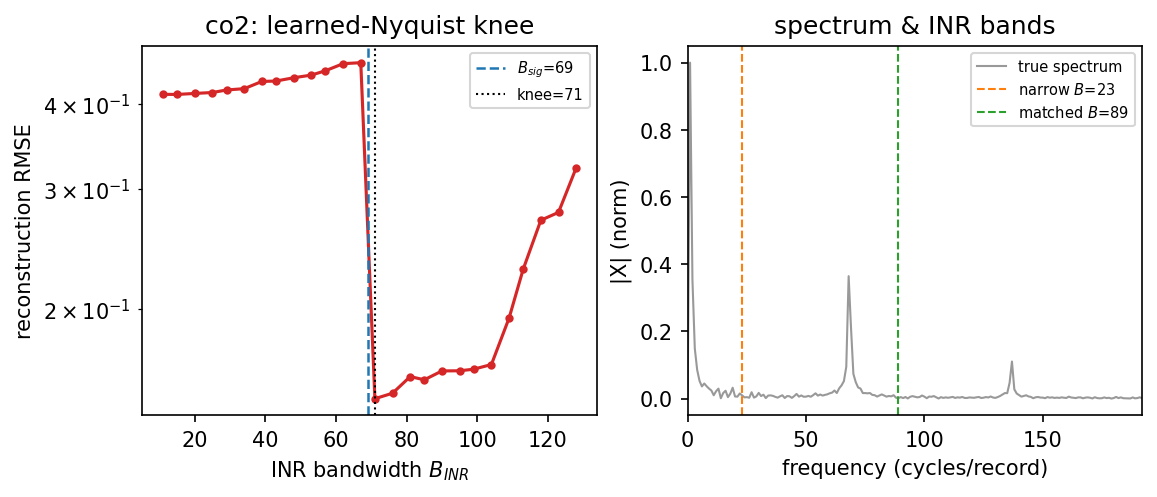
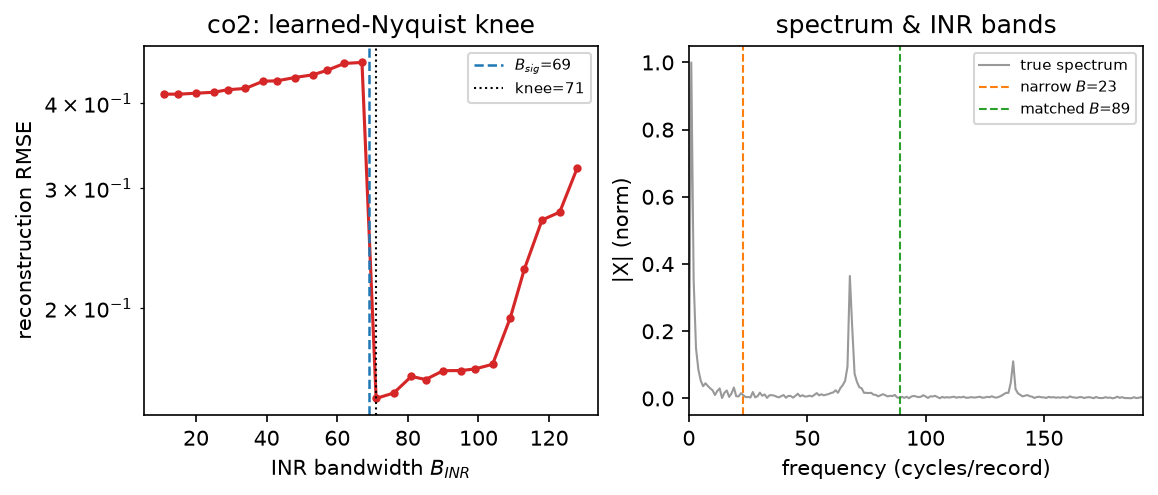
M7: run_all.py reproducibility entry point + README status/reproduction
- experiments/run_all.py: fetch data -> E1 -> E2 -> real sweeps -> (torch) nonlinear+2D; deterministic seeds
- verified bit-for-bit reproducibility local CPU == GPU server (co2: knee=71, 0.415, 0.160)
- README: status all done, CPU/torch split, paper build steps, data provenance

diff --git a/experiments/run_all.py b/experiments/run_all.py
@@ -1,0 +1,66 @@
+r"""Regenerate every result and figure.
+
+Order:
+  0. fetch real data (data/fetch_real.py) if the .npz files are missing;
+  1. E1 phase transition (CPU);
+  2. E2 silent aliasing (CPU);
+  3. real-signal learned-Nyquist sweeps (CPU): co2, sunspots_smooth, speech, sunspots;
+  4. trained nonlinear INR persistence + 2-D image demo (GPU/torch, skipped if torch absent).
+
+Every experiment uses a fixed seed, so results are deterministic. The GPU steps are the only
+ones needing torch; they are skipped with a message if torch is unavailable (run them on the
+server -- see README).
+"""
+from __future__ import annotations
+
+import runpy
+import sys
+from pathlib import Path
+
+ROOT = Path(__file__).resolve().parent.parent
+sys.path.insert(0, str(ROOT / "src"))
+sys.path.insert(0, str(ROOT / "experiments"))
+DATA = ROOT / "data"
+
+
+def _ensure_data():
+    needed = ["co2", "sunspots_smooth", "speech", "sunspots"]
+    missing = [n for n in needed if not (DATA / f"{n}.npz").exists()]
+    if missing:
+        print(f"[run_all] fetching missing real data: {missing}", flush=True)
+        import importlib.util
+        spec = importlib.util.spec_from_file_location("fetch_real", DATA / "fetch_real.py")
+        mod = importlib.util.module_from_spec(spec)
+        spec.loader.exec_module(mod)
+        mod.main(missing)
+
+
+def main():
+    _ensure_data()
+
+    import run_phase_transition
+    print("\n=== E1 phase transition ==="); run_phase_transition.main()
+
+    import run_silent_aliasing
+    print("\n=== E2 silent aliasing ==="); run_silent_aliasing.main()
+
+    import run_real_signal
+    print("\n=== real-data learned-Nyquist sweeps ===")
+    sys.argv = ["run_real_signal", "co2", "sunspots_smooth", "speech", "sunspots"]
+    run_real_signal.main()
+
+    from inralias.inr import torch_available
+    if torch_available():
+        import run_nonlinear
+        print("\n=== nonlinear INR persistence (torch) ==="); run_nonlinear.main()
+        import run_image2d
+        print("\n=== 2-D image demo (torch) ==="); run_image2d.run()
+    else:
+        print("\n[run_all] torch unavailable -- skipping nonlinear + 2-D demos "
+              "(run experiments/run_nonlinear.py and run_image2d.py on the GPU server)", flush=True)
+
+    print("\n[run_all] done. Results in results/ and results/figures/.", flush=True)
+
+
+if __name__ == "__main__":
+    main()

diff --git a/README.md b/README.md
@@ -24,16 +24,19 @@ the manuscript.
 > aliasing diagnostic**, and we instantiate **both sides of the limit** on real audio,
 > scientific (astronomical / seismic) and RF signals.
 
-## Status (work in progress)
+## Status
 
 - [x] Sampling / frame machinery on a finite frequency dictionary (`src/inralias/sampling.py`, tested)
-- [x] Theorem 1 achievability — noise gain, recoverable MMSE (tested vs Monte-Carlo)
-- [x] Theorem 2 converse — aliasing bias, error floor, folded frequency, silent aliasing (tested)
-- [x] Theorem 3 statistical — aliasing-bias floor vs estimation variance (tested)
-- [ ] Trained nonlinear INRs (SIREN / learnable frequencies) + bandwidth-matched estimator
-- [ ] Experiments E1–E2 (synthetic phase transition + silent-aliasing spectrum)
-- [ ] Real data E3 audio, E4 science, E5 RF, E6 2-D image demo
-- [ ] Paper (IEEE ICASSP, spconf)
+- [x] Theorem 1 achievability — noise gain, recoverable MMSE (validated vs Monte-Carlo)
+- [x] Theorem 2 converse — aliasing bias, error floor, folded frequency, silent aliasing (validated)
+- [x] Theorem 3 statistical — aliasing-bias floor vs estimation variance (validated)
+- [x] Trained nonlinear INRs (SIREN / Fourier-feature MLP) + bandwidth-matched estimator + data-only diagnostic
+- [x] E1 synthetic phase transition, E2 silent-aliasing spectrum
+- [x] Real data: audio (speech) and science (CO₂, sunspots) — both sides of the limit
+- [x] Nonlinear-INR persistence + 2-D image demo (learned aliasing generalizes)
+- [x] Paper (IEEE ICASSP, spconf) — `paper/main.pdf`, compiles clean
+
+All theorem ↔ Monte-Carlo checks pass (`python -m pytest -q`, 17 tests).
 
 ## Why this is not "just Nyquist"
 
@@ -61,9 +64,22 @@ results/          *.json summaries + figures/
 ```bash
 uv venv --python 3.11 && source .venv/Scripts/activate   # (or .venv/bin/activate)
 uv pip install -e ".[dev]"
-python -m pytest -q                # validate every theorem against Monte-Carlo
-python experiments/run_all.py      # regenerate all results/figures
+python -m pytest -q                # validate every theorem against Monte-Carlo (17 tests)
+python experiments/run_all.py      # regenerate all results/figures (CPU parts)
 ```
+
+The theory core and the synthetic + real-data experiments (E1, E2, learned-Nyquist sweeps) are
+**pure numpy/scipy and run on CPU**. The trained-nonlinear-INR persistence and the 2-D image demo
+need `torch` (`uv pip install ".[torch]"`; on a China network use
+`--index-url https://pypi.tuna.tsinghua.edu.cn/simple`) and a GPU is convenient but not required;
+`run_all.py` skips them automatically if torch is absent. To build the paper:
+
+```bash
+cd paper && pdflatex main && bibtex main && pdflatex main && pdflatex main
+```
+
+Real signals are fetched by `data/fetch_real.py` (public sources; see below) and small copies are
+vendored under `data/*.npz` so the experiments reproduce even offline.
 
 ## Relation to prior work
 